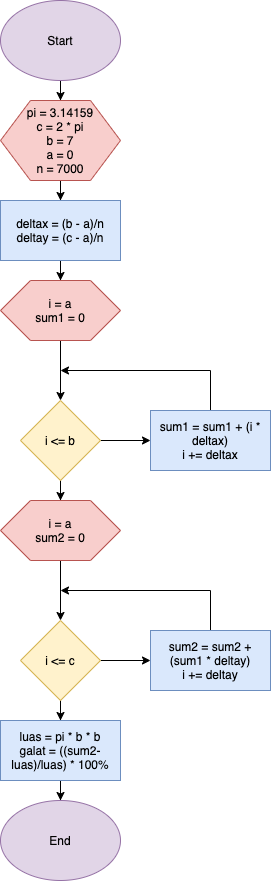
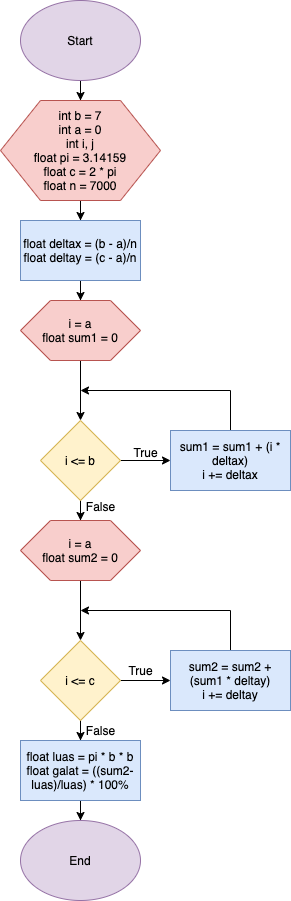
Add files via upload

Changed region(s): [[0.0, 0.0, 1.0, 1.0]]

diff --git a/Fadia Hanifa-18318029/Quiz 3/Quiz3.c b/Fadia Hanifa-18318029/Quiz 3/Quiz3.c
@@ -2,32 +2,28 @@
 // Fadia Hanifa Suwandoko / 18318029
 // Hitung luas lingkaran dengan integral
  
-// Inisiasi Konstanta
-float pi = 3.14159;
-int r = 7;
-float a = 0;
-float c;
-float sum1 = 0;
-float sum2 = 0;
-float i, j;
-float luas;
-float n = 70000;
-float galat;
-// Program Utama
 int main() {
-    c = 2 * pi;                             // batas atas integral kedua
-    float deltax = r/n;                     // delta integral pertama
+    // inisialisasi
+    int b = 7;
+    int a = 0;
+    float pi = 3.14159;
+    float i, j;
+    float c = 2 * pi;                       // batas atas integral kedua
+    float n = 70000;
+    float deltax = b/n;                     // delta integral pertama
     float deltay = c/n;                     // delta integral kedua
     // Integral Pertama (integral r)
-    for (i = a; i <= r; i = i + deltax){
+    float sum1 = 0;
+    for (i = a; i <= b; i = i + deltax){
         sum1 = sum1 + (i * deltax);         // sum1 = jumlah riemann f(x) = x, dx = (r/n)
     }
     // Integral Kedua (integral theta)
+    float sum2 = 0;
     for (i = a; i <= c; i = i + deltay){
         sum2 = sum2 + (sum1*deltay);        // sum2 = jumlah reimann f(x) = sum1, dy = (c/n)
     }
-    luas = pi * r * r;                      // luas dengan rumus biasa
-    galat = ((sum2 - luas)/luas) * 100;     // perbedaan luas dengan rumus dan dengan jumlah riemann
+    float luas = pi * b * b;                      // luas dengan rumus biasa
+    float galat = ((sum2 - luas)/luas) * 100;     // perbedaan luas dengan rumus dan dengan jumlah riemann
     printf("LUAS 1 = %3.2f\n", sum2);       // Display luas dan galat
     printf("LUAS 2 = %3.2f\n", luas);
     printf("Galat = %f persen\n", galat);
